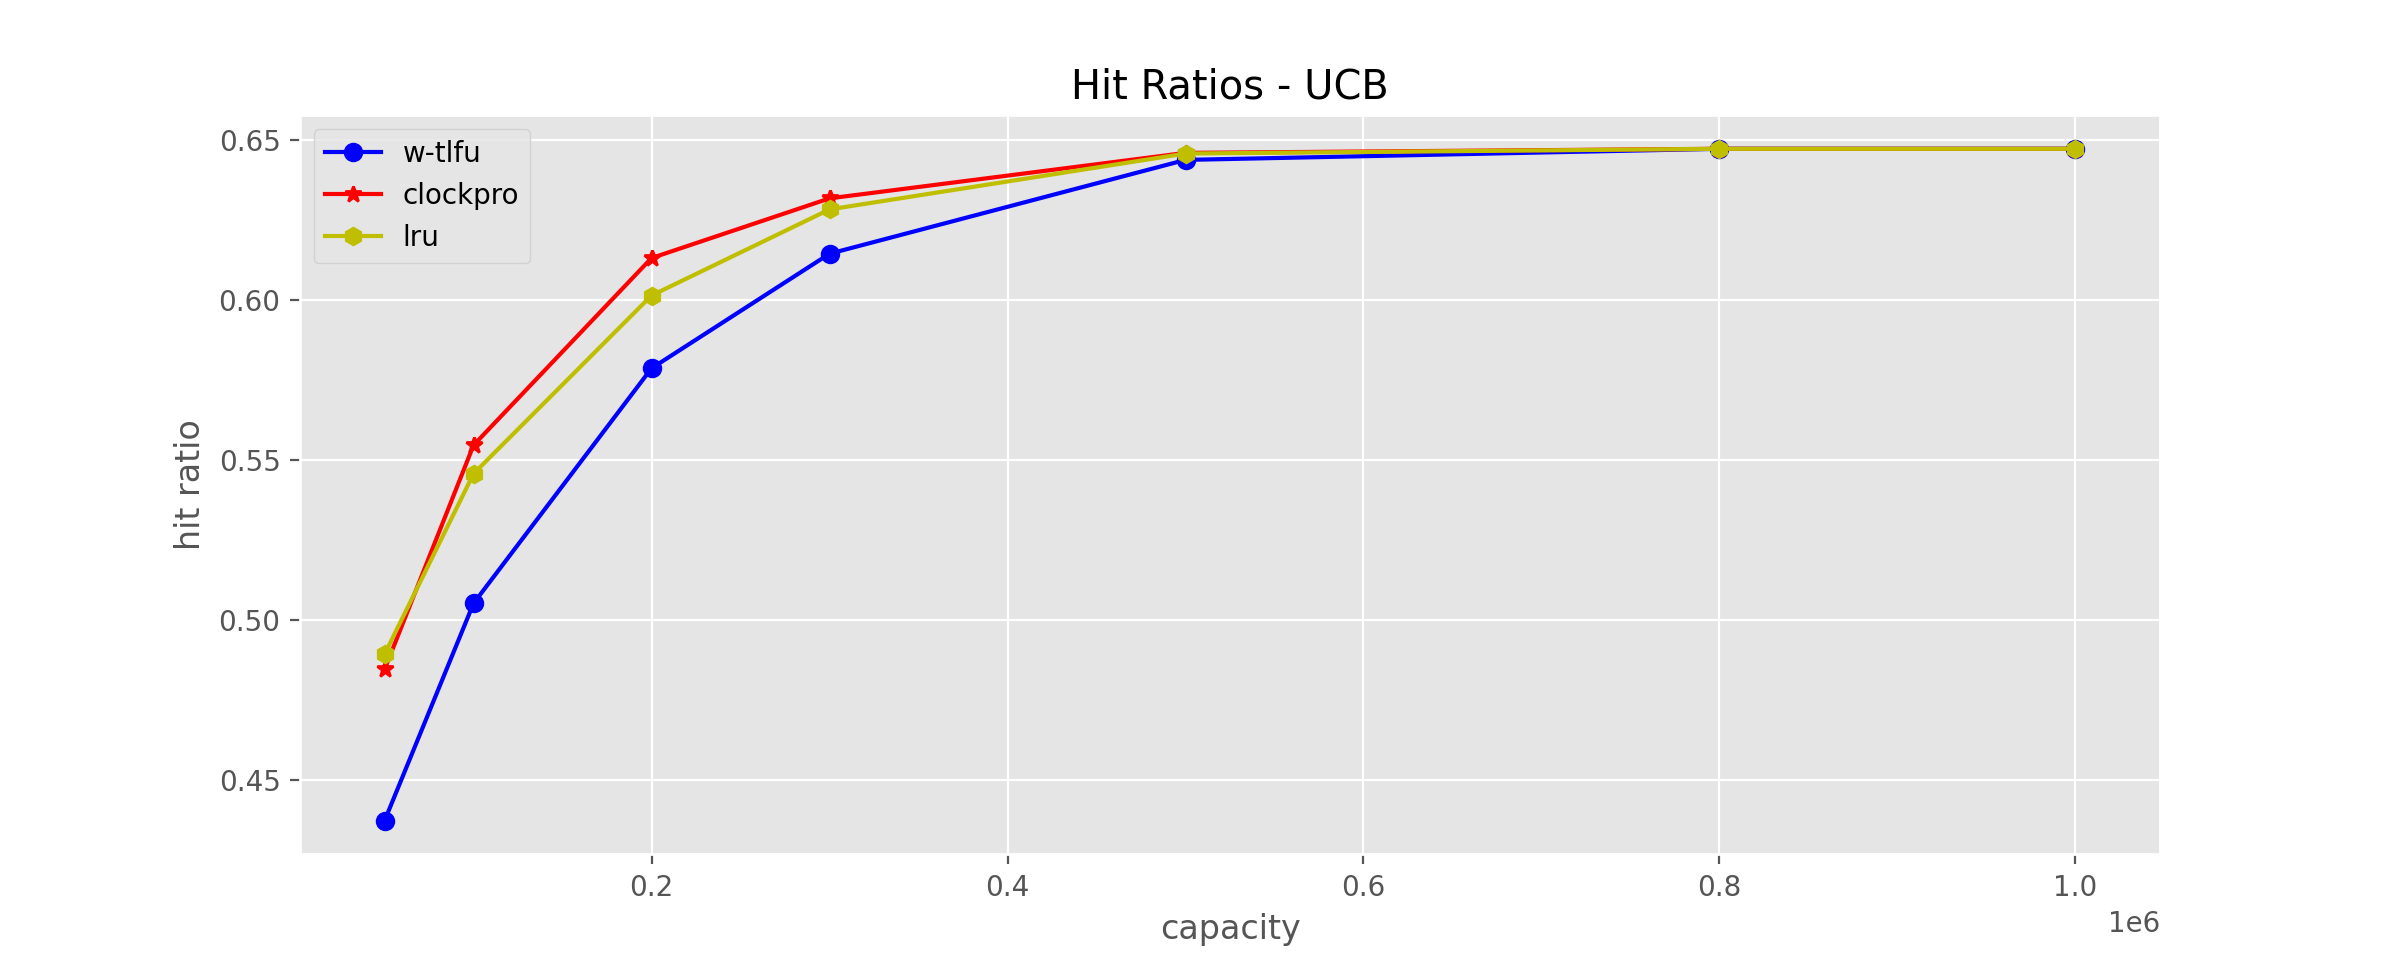
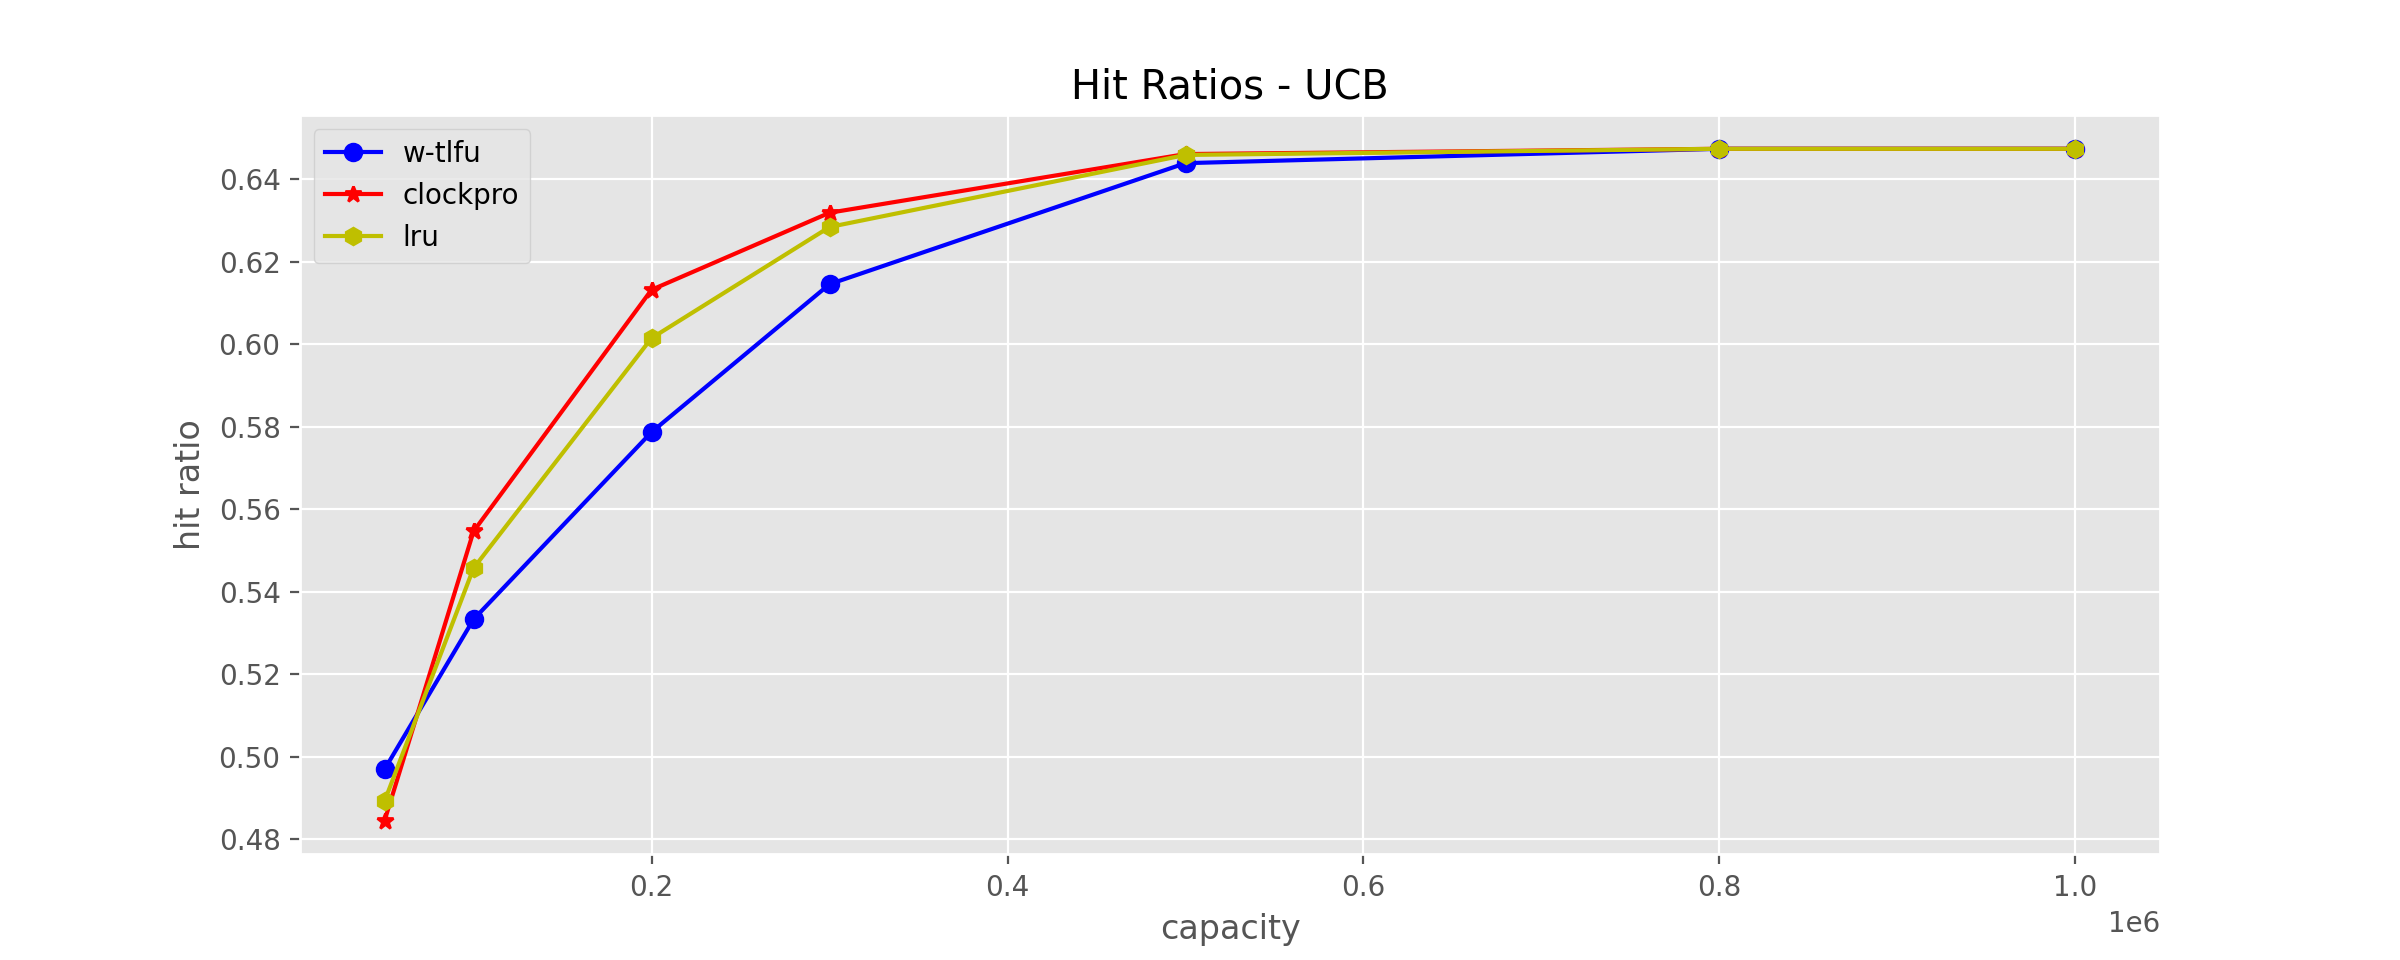
bump core to 0.4.1 and update bench

diff --git a/benchmarks/trace_bench.py b/benchmarks/trace_bench.py
@@ -1,27 +1,27 @@
 import csv
 from datetime import timedelta
-from functools import lru_cache
 from random import randint
-from time import sleep
-from typing import Callable, Iterable
-from unittest.mock import Mock
+from typing import Callable, Iterator
 
 import matplotlib.pyplot as plt
 from bounded_zipf import Zipf
-from cachetools import LFUCache, cached
+from theine import Cache
 
-from theine import Cache, Memoize
 
 plt.style.use("ggplot")
 
 
-def zipf_key_gen() -> Iterable:
-    z = Zipf(1.001, 10, 1000000)
+GET = "GET"
+SET = "SET"
+
+
+def zipf_key_gen() -> Iterator:
+    z = Zipf(1.001, 10, 50000000)
     for _ in range(1000000):
-        yield f"{z.get()}"
+        yield f"{z.get()}", GET
 
 
-def ucb_key_gen() -> Iterable:
+def ucb_key_gen() -> Iterator:
     with open(f"benchmarks/trace/ucb", "rb") as f:
         for line in f:
             vb = line.split(b" ")[-2]
@@ -29,101 +29,91 @@ def ucb_key_gen() -> Iterable:
                 v = vb.decode()
             except:
                 v = "failed"
-            yield v
+            yield v, GET
 
 
-def ds1_key_gen() -> Iterable:
+def ds1_key_gen() -> Iterator:
     with open(f"benchmarks/trace/ds1", "r") as f:
         for line in f:
-            yield line.split(",")[0]
+            yield line.split(",")[0], GET
 
 
-def s3_key_gen() -> Iterable:
+def s3_key_gen() -> Iterator:
     with open(f"benchmarks/trace/s3", "r") as f:
         for line in f:
-            yield line.split(",")[0]
+            yield line.split(",")[0], GET
 
 
-def scarab_key_gen() -> Iterable:
+def scarab_key_gen() -> Iterator:
     with open("benchmarks/trace/sc.trace", "rb") as f:
         while True:
             raw = f.read(8)
             if not raw:
                 break
-            yield str(int.from_bytes(raw, "big"))
+            yield str(int.from_bytes(raw, "big")), GET
 
 
-def fb_key_gen() -> Iterable:
+def scarab_1h_key_gen() -> Iterator:
+    with open("benchmarks/trace/sc2", "rb") as f:
+        while True:
+            raw = f.read(8)
+            if not raw:
+                break
+            yield str(int.from_bytes(raw, "big")), GET
+
+
+def fb_key_gen() -> Iterator:
     with open("benchmarks/trace/fb.csv", "r", newline="") as csvfile:
         reader = csv.DictReader(csvfile)
         for row in reader:
-            if row["op"] != "GET":
-                continue
-            yield str(row["key"])
+            yield str(row["key"]), row["op"]
 
 
-def bench_theine(policy: str, cap: int, gen: Callable[..., Iterable]):
+def fb2_key_gen() -> Iterator:
+    with open("benchmarks/trace/fb2.csv", "r", newline="") as csvfile:
+        reader = csv.DictReader(csvfile)
+        for row in reader:
+            yield str(row["key"]), row["op"]
+
+
+def fb3_key_gen() -> Iterator:
+    with open("benchmarks/trace/fb3.csv", "r", newline="") as csvfile:
+        reader = csv.DictReader(csvfile)
+        for row in reader:
+            yield str(row["key"]), row["op"]
+
+
+def ytb_key_gen() -> Iterator:
+    with open("benchmarks/trace/ytb.dat", "r", newline="") as f:
+        for line in f:
+            tmp = line.split(" ")
+            vid = tmp[4].split("&")[0]
+            yield vid, GET
+
+
+def bench_theine(policy: str, cap: int, gen: Callable[..., Iterator]):
     counter = 0
-    load = 0
+    miss = 0
 
-    @Memoize(Cache(policy, cap), timeout=None)
-    def theine_hit(i: str):
-        nonlocal load
-        load += 1
-        return i
+    cache = Cache(policy, cap)
 
-    @theine_hit.key
-    def _(i: str) -> str:
-        return i
-
-    for key in gen():
+    for key, op in gen():
         counter += 1
-        v = theine_hit(key)
-        assert key == v
+        if op == GET:
+            v = cache.get(key)
+            if v is not None:
+                assert key == v
+            else:
+                miss += 1
+                cache.set(key, key)
+        else:
+            cache.set(key, key)
+
         if counter % 100000 == 0:
             print(".", end="", flush=True)
     print("")
-    hr = (counter - load) / counter
+    hr = (counter - miss) / counter
     print(f"---- theine({policy}) hit ratio: {hr:.3f}")
-    return hr
-
-
-def bench_lru(cap: int, gen: Callable[..., Iterable]):
-    counter = 0
-    load = 0
-
-    @lru_cache(maxsize=cap)
-    def lru_hit(i: str):
-        nonlocal load
-        load += 1
-        return i
-
-    for key in gen():
-        counter += 1
-        v = lru_hit(key)
-        assert key == v
-        if counter % 100000 == 0:
-            print(".", end="", flush=True)
-    print("")
-    hr = (counter - load) / counter
-    print(f"---- lru hit ratio: {hr:.3f}")
-    return hr
-
-
-def bench_cachetools_lfu(cap: int, gen: Callable[..., Iterable]):
-    @cached(cache=LFUCache(maxsize=cap))
-    def lru_hit(i: str, m: Mock):
-        m(i)
-        return i
-
-    mock = Mock()
-    counter = 0
-    for key in gen():
-        v = lru_hit(key, mock)
-        assert key == v
-        counter += 1
-    hr = 1 - mock.call_count / counter
-    print(f"cachetools lfu hit ratio: {hr:.2f}")
     return hr
 
 
@@ -190,6 +180,7 @@ bench_and_plot(
 bench_and_plot(
     [1000, 2000, 5000, 10000, 20000, 50000, 100000], scarab_key_gen, "SCARAB"
 )
-bench_and_plot(
-    [50000, 100000, 200000, 300000, 500000, 800000, 1000000], fb_key_gen, "FB"
-)
+
+bench_and_plot([25000, 50000, 75000, 100000], scarab_1h_key_gen, "SCARAB1H")
+
+# bench_and_plot([10000, 20000, 50000, 80000, 100000], fb_key_gen, "FB")
